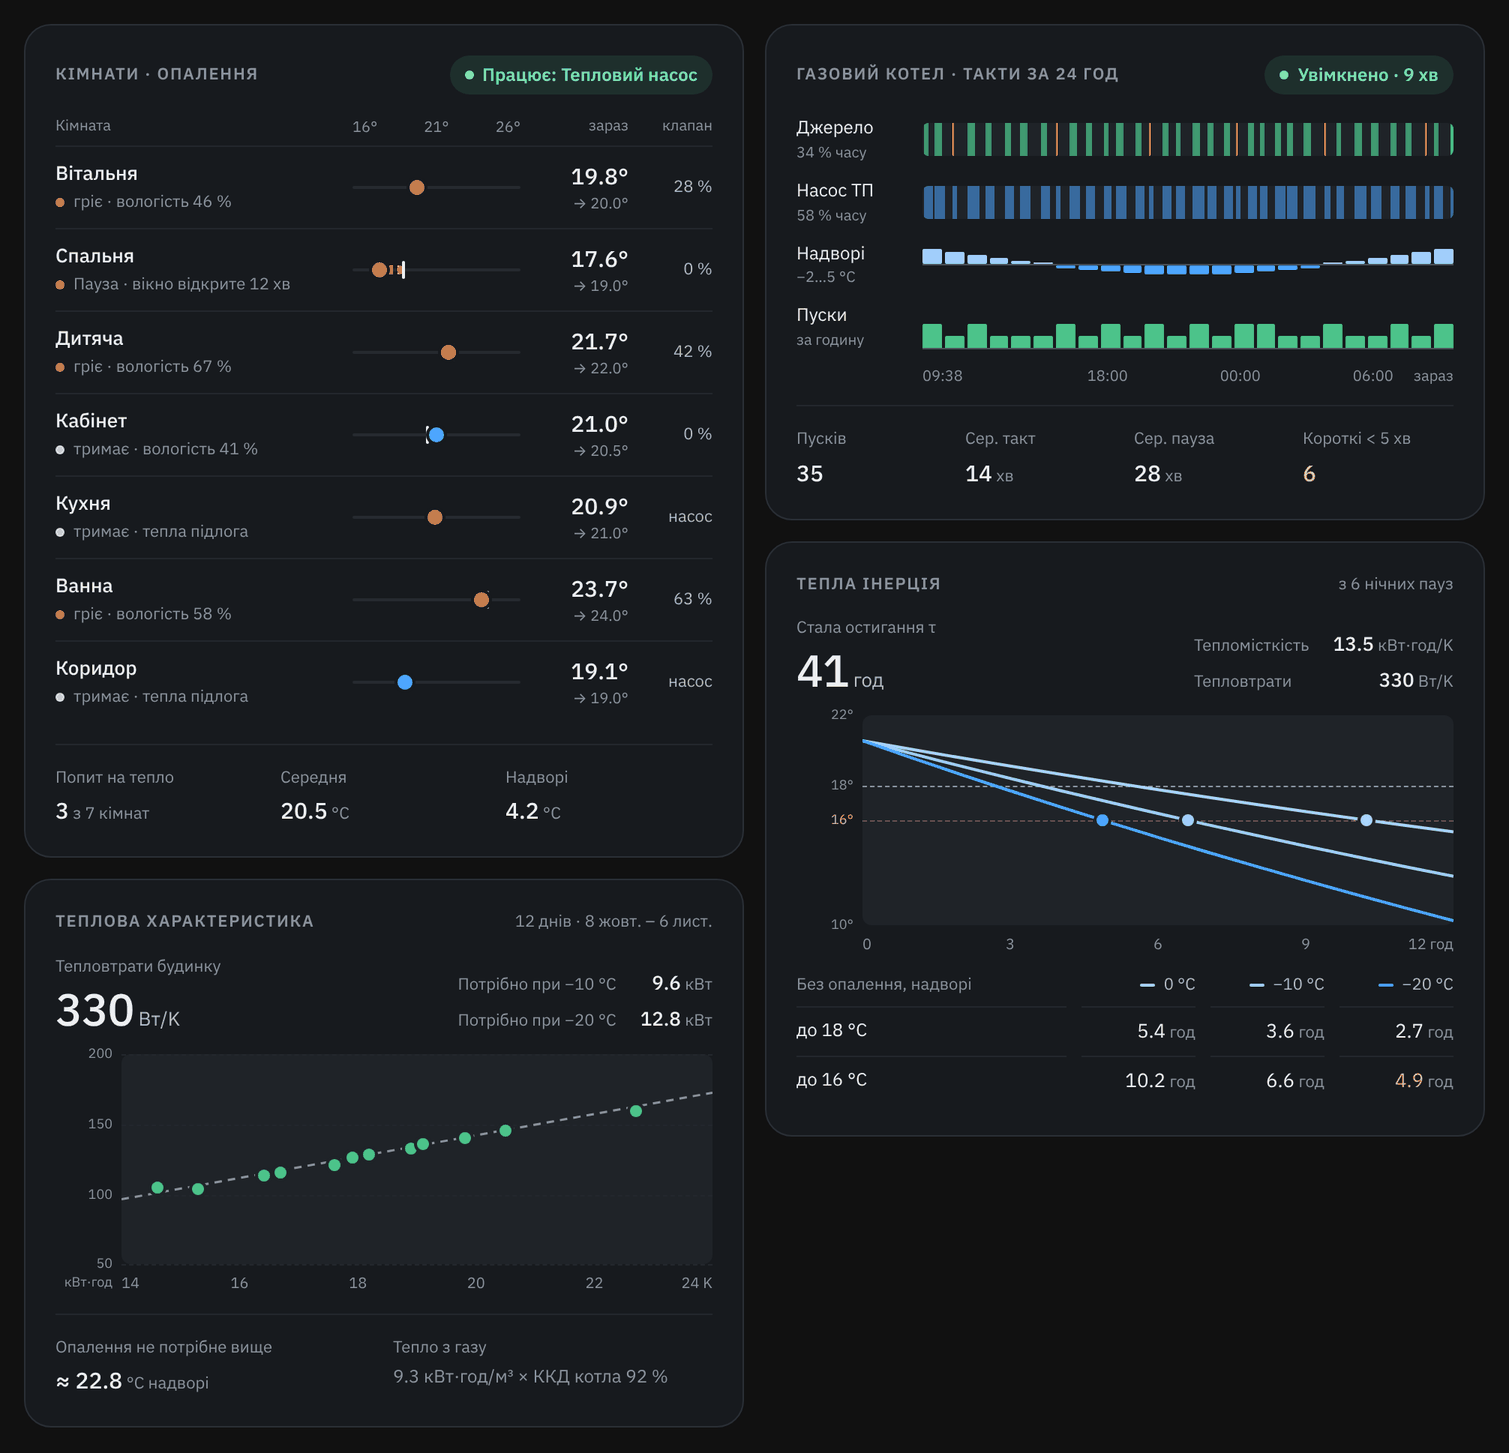
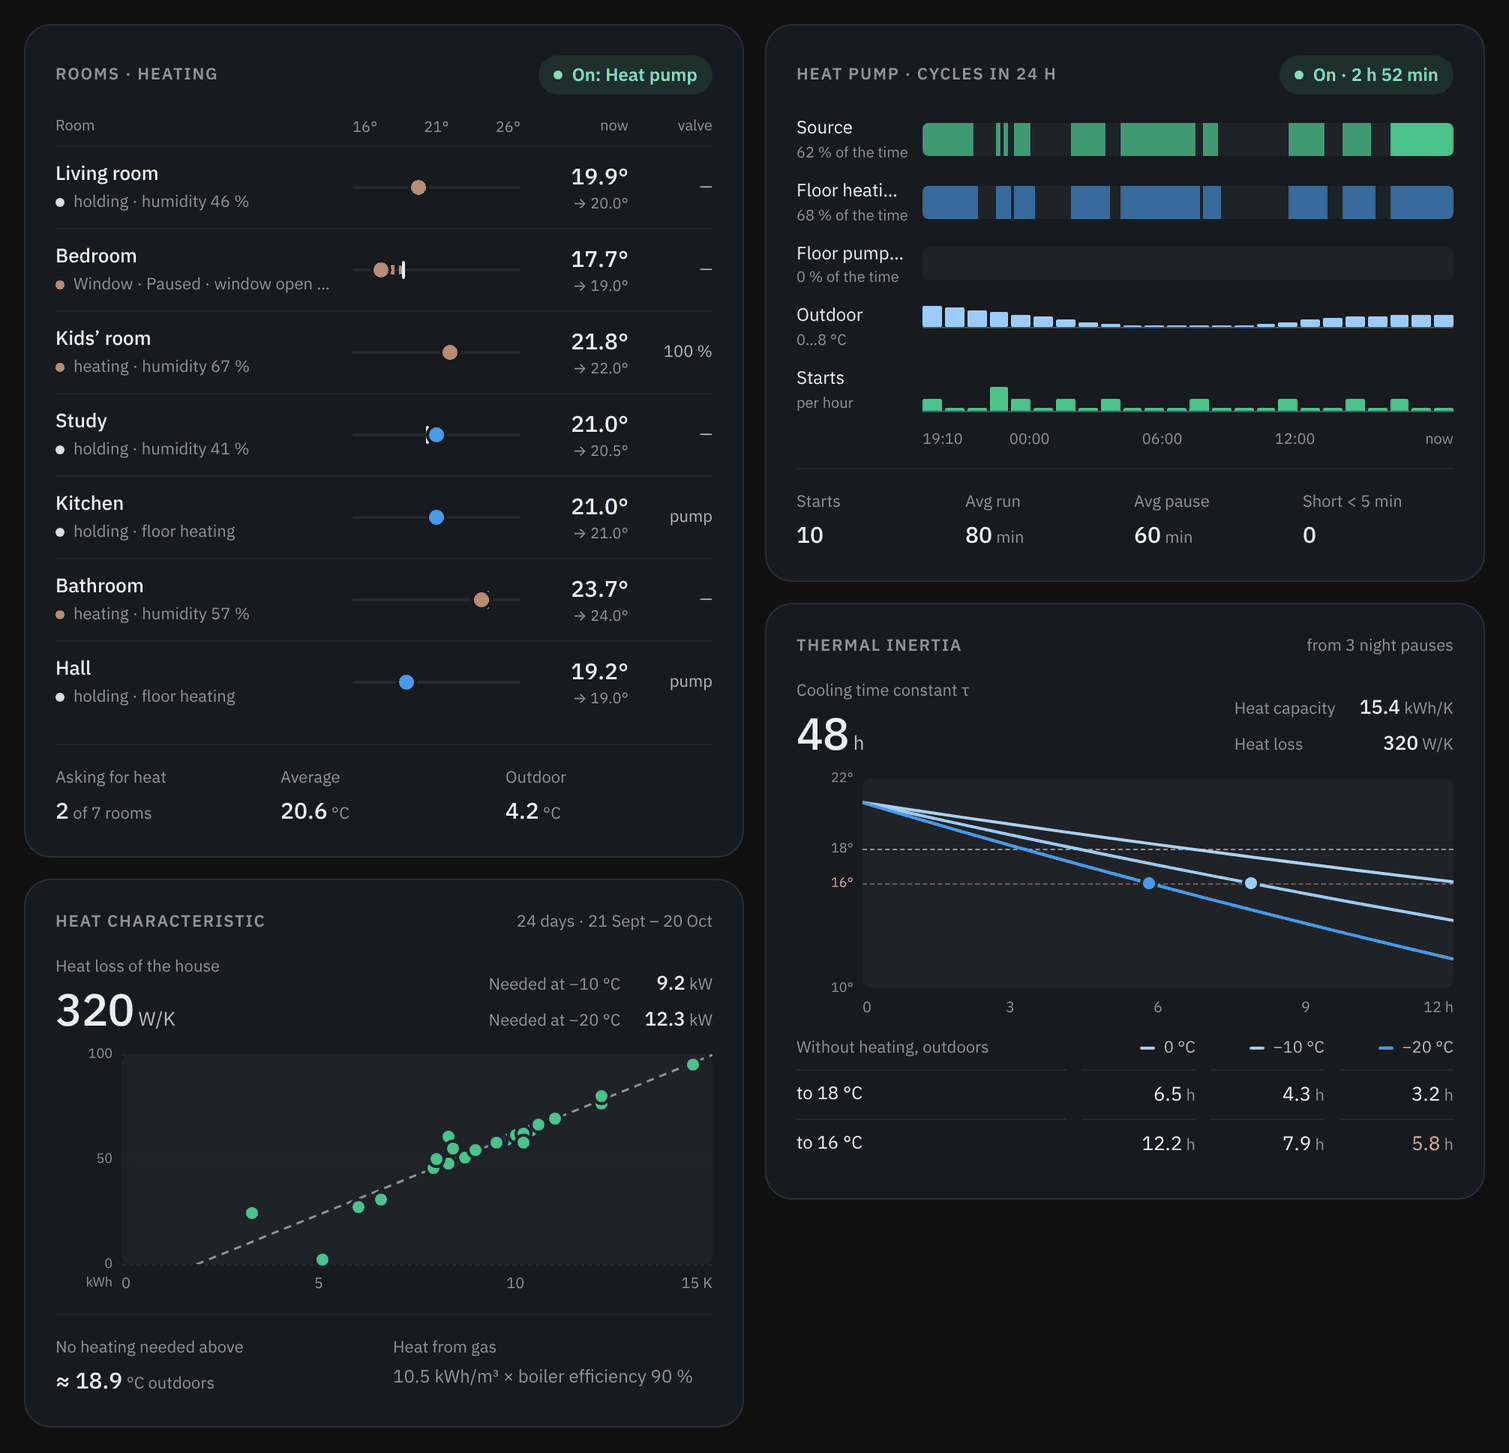
0.2.42: the widgets' screenshot in English, clean heat chart axes
docs/screenshots/card-widgets.png came from the card harness, whose
fixtures are Ukrainian; it is now taken from the simulator (English)
like the other card screenshots. Every other screenshot was checked:
all are English but overview-uk.png, which the README shows on purpose
as the Ukrainian interface.

On real data the widget's difference axis stepped by 2.5 K and rounded
its labels («3, 5, 8, 10, 13»), and the heat axis followed the line
below zero. The ticks step by 1, 2, 5 or 10 now and heat starts at 0;
the panel's HeatLossChart starts its line where it rises above the
bottom of the plot.

diff --git a/klimo/frontend/src/ui/viz/charts/HeatLossChart.tsx b/klimo/frontend/src/ui/viz/charts/HeatLossChart.tsx
@@ -46,7 +46,8 @@ export function HeatLossChart({ points, fit, ariaLabel, xUnit, yUnit, formatX = 
     const xHi = Math.max(xLo + xStep, Math.ceil(xHi0 / xStep) * xStep);
     // the line's ends stay inside the plot
     const ys = [...points.map((p) => p.y), ...(fit ? [fit.a + fit.b * xLo, fit.a + fit.b * xHi] : [])];
-    const yLo0 = ys.length ? Math.min(...ys) : 0;
+    // heat is never below zero: the line is cut there
+    const yLo0 = ys.length ? Math.max(0, Math.min(...ys)) : 0;
     const yHi0 = ys.length ? Math.max(...ys) : 10;
     const yStep = [1, 2, 5, 10, 20, 25, 50, 100, 200, 500].find((st) => (yHi0 - yLo0) / st <= 4) ?? 1000;
     const yLo = Math.floor(yLo0 / yStep) * yStep;
@@ -57,6 +58,7 @@ export function HeatLossChart({ points, fit, ariaLabel, xUnit, yUnit, formatX = 
       Y: linear(yLo, yHi, PY_BOTTOM, PY_TOP),
       xLo,
       xHi,
+      yLo,
       xTicks: gridValues(xLo, xHi, xStep),
       yTicks: gridValues(yLo, yHi, yStep),
     };
@@ -73,7 +75,7 @@ export function HeatLossChart({ points, fit, ariaLabel, xUnit, yUnit, formatX = 
           <path d={g.yTicks.map((v) => `M${g.px0.toFixed(1)} ${g.Y(v).toFixed(1)}H${PX1}`).join('')} className={s.heatLossGrid} vectorEffect="non-scaling-stroke" />
           {fit ? (
             <path
-              d={`M${g.X(g.xLo).toFixed(1)} ${g.Y(fit.a + fit.b * g.xLo).toFixed(1)}L${g.X(g.xHi).toFixed(1)} ${g.Y(fit.a + fit.b * g.xHi).toFixed(1)}`}
+              d={`M${g.X(fitFrom(fit, g.xLo, g.yLo)).toFixed(1)} ${g.Y(fit.a + fit.b * fitFrom(fit, g.xLo, g.yLo)).toFixed(1)}L${g.X(g.xHi).toFixed(1)} ${g.Y(fit.a + fit.b * g.xHi).toFixed(1)}`}
               className={s.heatLossFit}
               vectorEffect="non-scaling-stroke"
             />
@@ -102,4 +104,9 @@ export function HeatLossChart({ points, fit, ariaLabel, xUnit, yUnit, formatX = 
       </div>
     </div>
   );
+}
+
+/** Where the line enters the plot: at its left edge, or later where it rises above the bottom. */
+function fitFrom(fit: { a: number; b: number }, xLo: number, yLo: number): number {
+  return fit.b > 0 && fit.a + fit.b * xLo < yLo ? (yLo - fit.a) / fit.b : xLo;
 }

diff --git a/klimo/card/klimo-cards.js b/klimo/card/klimo-cards.js
@@ -76,7 +76,7 @@
  * `klimo-room-sheet` and `klimo-open`).
  */
 
-const VERSION = '0.2.41';
+const VERSION = '0.2.42';
 
 /* ─────────────────────────────── 1 Tokens ──────────────────────────────────────────────────────
  * The same values as the panel's design tokens. `npm run tokens:card` in klimo/frontend copies
@@ -4253,7 +4253,8 @@ function niceTicks(lo, hi, count = 4) {
   const span = Math.max(hi - lo, 1e-6);
   const raw = span / count;
   const mag = 10 ** Math.floor(Math.log10(raw));
-  const step = [1, 2, 2.5, 5, 10].map((m) => m * mag).find((s) => s >= raw) || 10 * mag;
+  // no 2.5: whole-number labels stay exact
+  const step = [1, 2, 5, 10].map((m) => m * mag).find((s) => s >= raw) || 10 * mag;
   const a = Math.floor(lo / step) * step;
   const b = Math.ceil(hi / step) * step;
   const out = [];
@@ -4595,7 +4596,8 @@ class KlimoHeatLossCard extends KlimoWidget {
     const xt = niceTicks(Math.min(...xs), Math.max(...xs), 5);
     // the line's ends stay inside the plot
     const ends = fit ? [fit.a + fit.b * xt[0], fit.a + fit.b * xt[xt.length - 1]] : [];
-    const yt = niceTicks(Math.min(...ys, ...ends), Math.max(...ys, ...ends), 3);
+    // heat is never below zero: the line is cut there
+    const yt = niceTicks(Math.max(0, Math.min(...ys, ...ends)), Math.max(...ys, ...ends), 3);
     const [x0, x1] = [xt[0], xt[xt.length - 1]];
     const [y0, y1] = [yt[0], yt[yt.length - 1]];
     const X = (x) => pctOf(x, x0, x1);

diff --git a/klimo/CHANGELOG.md b/klimo/CHANGELOG.md
@@ -1,5 +1,12 @@
 # Changelog
 
+## 0.2.42
+
+- **The heat characteristic's chart reads cleanly.** The difference axis no longer steps by 2.5 K (which
+  rounded to «3, 5, 8, 10, 13»), and the heat axis stops at zero instead of following the line below it,
+  in the widget and on System → Consumption alike.
+- The README shows the widgets in English.
+
 ## 0.2.41
 
 - **Four dashboard widgets.** New Lovelace cards that chart the house rather than control it, each with a
